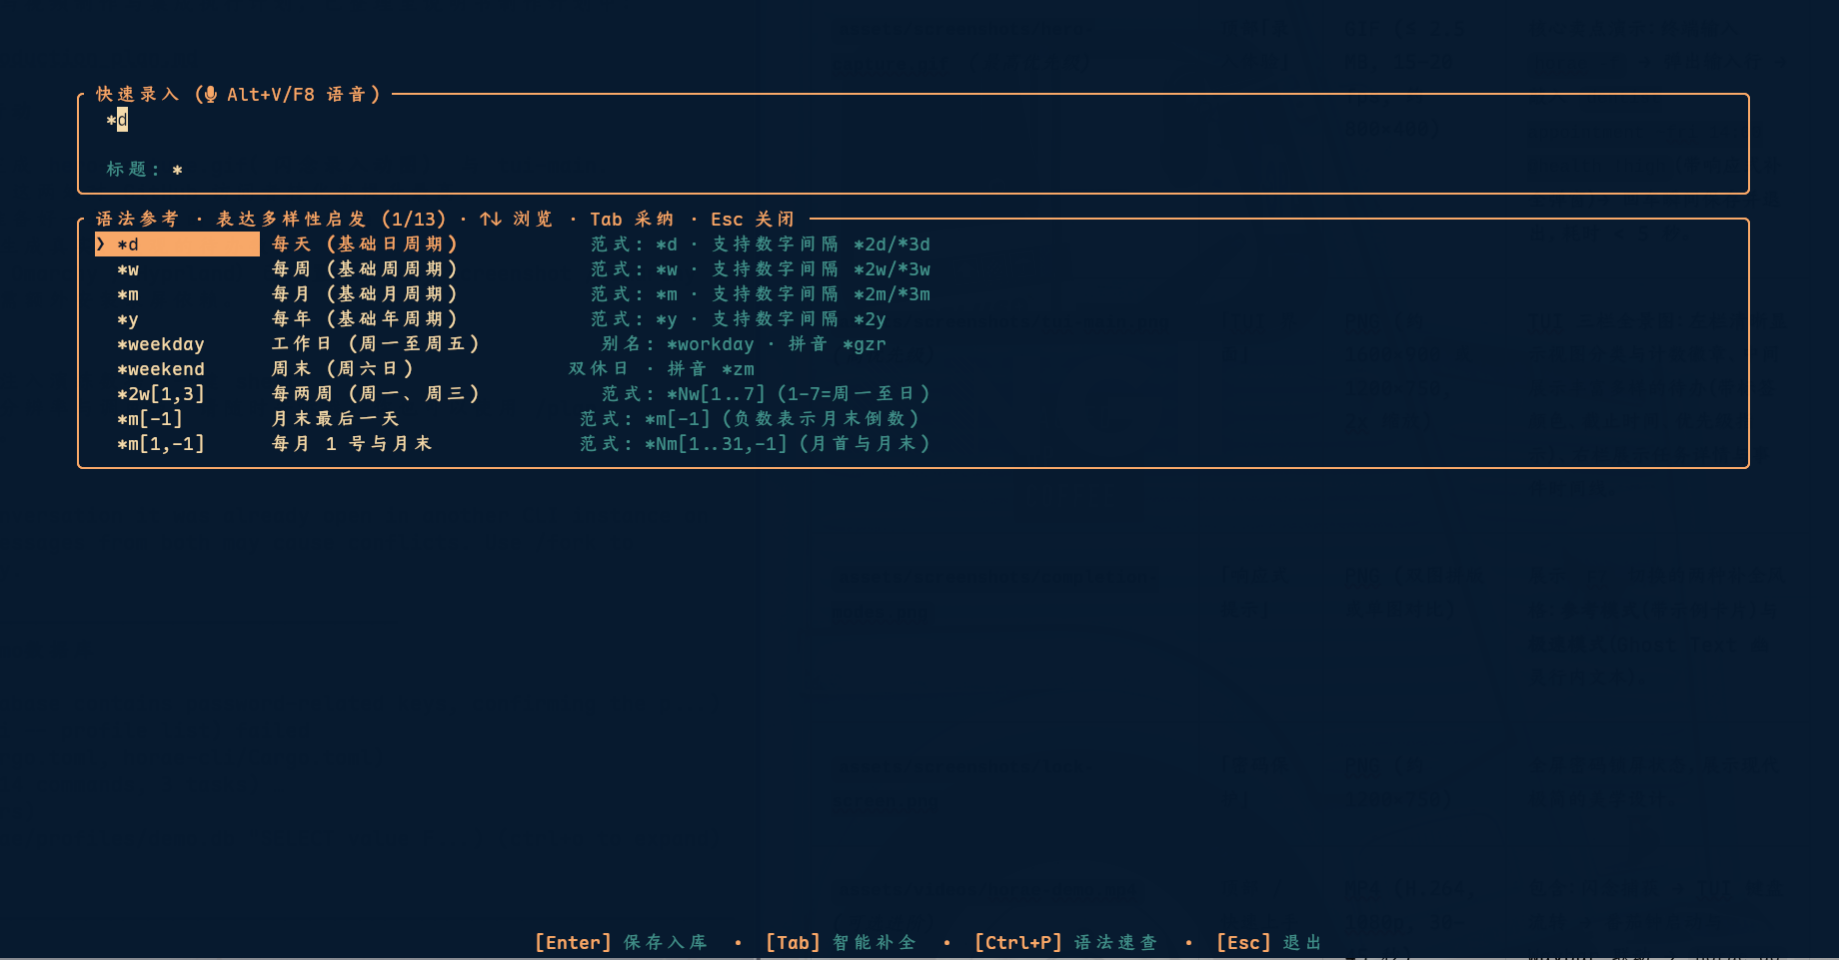
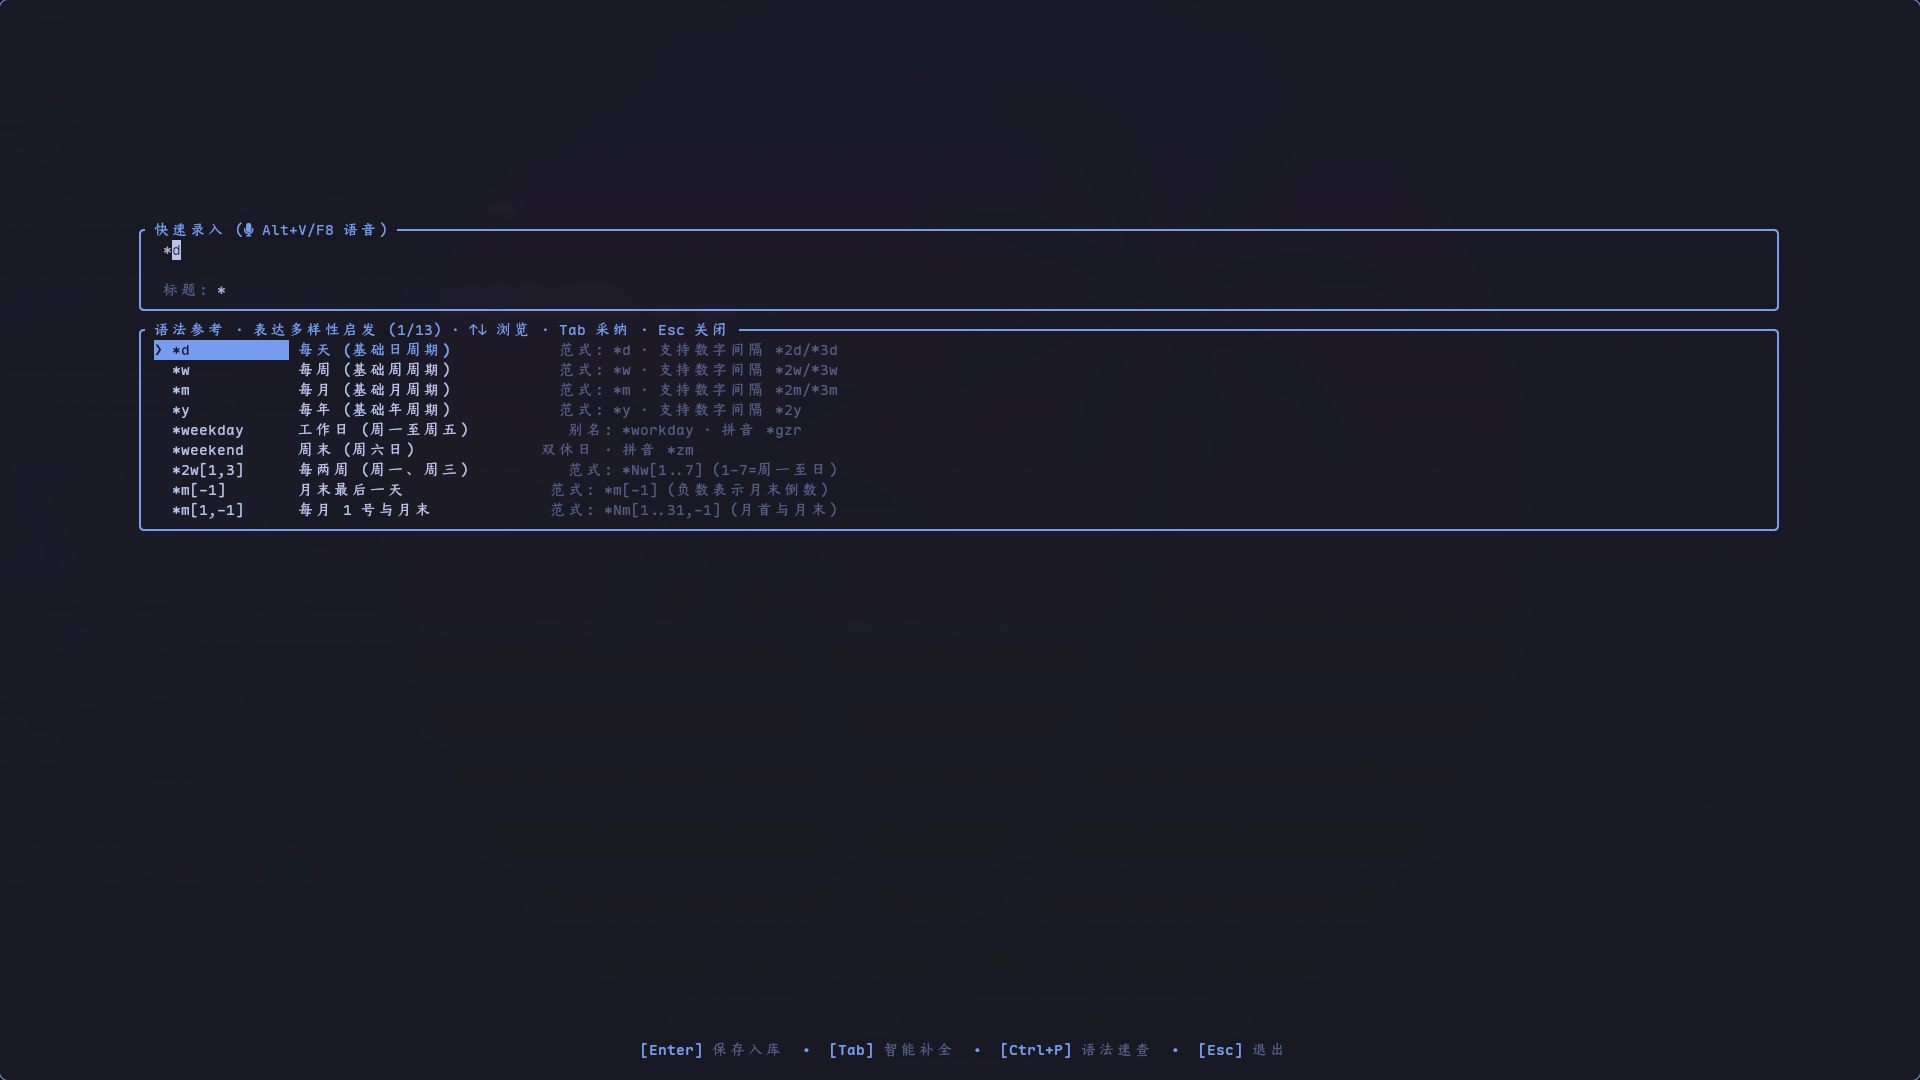
docs: add bilingual visual quickstart manuals and refresh Tokyo Night screenshots

Changed region(s): [[0.031, 0.1562, 0.9299, 0.5], [0.279, 0.9688, 0.7439, 1.0], [0.031, 0.0938, 0.217, 0.125]]

diff --git a/docs/USER_MANUAL.md b/docs/USER_MANUAL.md
@@ -1,0 +1,122 @@
+# horae Visual Quickstart Guide
+
+<div align="center">
+
+> **Idea to Inbox in 10s · ~2 ms Startup · Single-Line Syntax · Keyboard-Driven TUI**
+
+[English](USER_MANUAL.md) · [简体中文](USER_MANUAL_CN.md)
+
+</div>
+
+---
+
+## 1. Flash Capture: Clear Working Memory in 10s
+
+No bloated windows or forms. Launch a focused single-line capture modal from your terminal or via global hotkey (`SUPER+I`).
+
+![Flash Capture Dialog](../assets/screenshots/flash-capture.png)
+
+- **~2 ms Startup**: Cursor blinking immediately on launch; press Enter to save and exit;
+- **Full One-Line Syntax**: Seamlessly parse title, context tags, dates, recurrence, and priority;
+  ```text
+  Ship new release @work ~today 18:00 !high *d
+  │                │     │           │     └─ Recurrence: daily
+  │                │     │           └─────── Priority: high
+  │                │     └─────────────────── Scheduled date/time
+  │                └───────────────────────── Context tag
+  └────────────────────────────────────────── Task title
+  ```
+- **Zero-Friction Input**: Full CJK full-width symbol support (`＠` `～` `＊` `！`) with automatic token normalization.
+
+---
+
+## 2. Reactive Completions: Zero-Delay Syntax Expansion
+
+Type `@`, `~`, `*`, or `!` and completion suggestions pop up immediately without pressing Tab.
+
+![Reactive Completion Modes](../assets/screenshots/completion-modes.png)
+
+- **Reference Mode**: Split panel presenting candidate tokens alongside syntax examples and descriptions;
+- **Speed Mode**: Compact candidate list with inline ghost-text preview (`F7` to toggle anytime);
+- **One-Key Commit**: Press `Enter` to autocomplete and save in one keystroke.
+
+---
+
+## 3. 3-Pane Dashboard: Time-Datafication & Audit Timeline
+
+Type `horae` to enter the keyboard-driven dashboard. Tasks are never static notes; each possesses an authentic Git Log-style history.
+
+![TUI Main Dashboard](../assets/screenshots/tui-main.png)
+
+- **Sidebar**: `J` Today, `K` Tomorrow, `1`~`7` GTD buckets (Inbox, Next, Waiting, Scheduled...);
+- **Task List**: Vim `j`/`k` navigation, `x` Done (recurring habits reschedule forward automatically), `v` visual multi-select;
+- **Detail & Audit Timeline**: Exclusive **Git Log timeline** stamping every status change, reschedule, and check-in with UTC-ms timestamps.
+
+---
+
+## 4. Algorithmic Focus & Pomodoro: Instant Flow
+
+Unsure what to tackle next? Let the recommendation engine score and pick your single highest-value action.
+
+```sh
+horae do --start    # Selects highest-value task & immediately starts a 25m Pomodoro
+```
+
+- **Multi-Factor Scoring**: Weighs urgency, overdue days, priority tiers, and creation age;
+- **Status Bar Integration**: Background daemon ticks per second, driving Waybar / Quickshell countdowns;
+- **TUI Controls**: Press `P` on any selected task to toggle Pomodoro, `[` to tweak intervals.
+
+---
+
+## 5. Guided Weekly Review: Keep Your System Trustworthy
+
+Press `r` in the TUI each week for a guided 5-step review:
+
+![Weekly Review Wizard](../assets/screenshots/weekly-review.png)
+
+1. **Inbox Zero**: Clarify collected fragments;
+2. **Waiting On**: Follow up on delegated dependencies;
+3. **Calendar Check**: Review commitments across the next 7 days;
+4. **Someday / Maybe**: Re-evaluate backlogged ideas;
+5. **Next Actions**: Ensure every active project has a concrete physical next step.
+
+---
+
+## 6. Privacy & Security: Encryption & Instant Lock
+
+Database protection powered by PBKDF2-HMAC-SHA256:
+
+![Lock Screen & Encryption](../assets/screenshots/lock-screen.png)
+
+- **Field-Level Encryption at Rest**: Transparent AEAD encryption for task titles, notes, and timelines;
+- **Instant Lock**: Stepping away? Press `L` to lock immediately, instantly purging cached secrets from memory.
+
+---
+
+## 7. 10-Key Quick Reference
+
+Press `?` or `F1` in the TUI to view the comprehensive cheatsheet:
+
+![Keybindings Cheatsheet](../assets/screenshots/help-cheatsheet.png)
+
+| Key | Action |
+| :--- | :--- |
+| `j` / `k` | Move cursor up / down |
+| `a` | Capture new task (from any view) |
+| `Enter` / `e` | Edit / organize selected task |
+| `x` | Mark Done (recurring tasks reschedule forward) |
+| `w` / `s` | Move to Waiting / Someday |
+| `P` / `S` | Start / Stop Pomodoro |
+| `J` / `K` | Jump to Today / Tomorrow view |
+| `0` ~ `7` | `0` Quotes, `1` Inbox, `2` Next, `7` Done |
+| `F5` / `F6` / `F7` | 24 Themes / Language / Module Settings |
+| `L` | Lock screen immediately |
+
+---
+
+<div align="center">
+
+**Return time to focus, overcome anxiety with certainty.**  
+GitHub: [zhaohang1205/horae](https://github.com/zhaohang1205/horae)
+
+</div>

diff --git a/docs/USER_MANUAL_CN.md b/docs/USER_MANUAL_CN.md
@@ -1,0 +1,122 @@
+# horae 精简操作指南 (Visual Quickstart)
+
+<div align="center">
+
+> **脑中闪念，10 秒入库 · 亚秒级启动 · 一句话全语法 · 纯键盘终端看板**
+
+[English](USER_MANUAL.md) · [简体中文](USER_MANUAL_CN.md)
+
+</div>
+
+---
+
+## 1. 闪念录入：10 秒清空工作记忆
+
+无需打开繁杂界面，在终端或通过全局快捷键（`SUPER+I`）直接唤起单行录入浮窗。
+
+![闪念录入浮窗](../assets/screenshots/flash-capture.png)
+
+- **~2ms 极速启动**：光标直接落在输入框，录完回车即走；
+- **一句话全语法**：自然拆解标题、标签、时间、周期与优先级；
+  ```text
+  发布新版本 @work ~今天 18:00 !high *d
+  │          │     │           │     └─ 循环：每天
+  │          │     │           └─────── 优先级：高
+  │          │     └─────────────────── 计划时间
+  │          └───────────────────────── 情境标签
+  └──────────────────────────────────── 任务标题
+  ```
+- **中文与全角零切换**：直接键入 `＠work`、`～明天`、`！high` 均可精准识别。
+
+---
+
+## 2. 响应式补全：无需 Tab，随敲即现
+
+输入 `@`、`~`、`*` 或 `!` 时，候选框瞬时弹出，直观展示语法释义。
+
+![响应式补全模式](../assets/screenshots/completion-modes.png)
+
+- **参考模式**：左右分栏，直观呈现候选词、说明与语法示例；
+- **极速模式**：紧凑候选列表，配合幽灵字内联预览（`F7` 随意切换）；
+- **回车直达**：`Enter` 一键补全并保存，无多余按键。
+
+---
+
+## 3. 三栏主看板：时间数据化与事件履历
+
+键入 `horae` 进入三栏纯键盘看板。任务不再是一张静态便签，而拥有如 Git Log 般的完整生命履历。
+
+![TUI 主看板全景](../assets/screenshots/tui-main.png)
+
+- **左侧导航**：`J` 今日清单、`K` 明日计划、`1`~`7` GTD 状态桶（收件箱/下一步/等待/日程）；
+- **中央列表**：Vim 风格 `j`/`k` 移动，`x` 完成（循环任务自动推进至下一周期），`v` 批量多选；
+- **右侧详情与时间线**：独家 **Git Log 审计时间线**，每次状态流转、优先级调整与打卡均带 UTC 毫秒时间戳。
+
+---
+
+## 4. 专注推荐与番茄钟：一键沉浸
+
+不知道接下来该做什么？让算法为你挑选最高价值的一件事。
+
+```sh
+horae do --start    # 算法推荐当前最优任务，并直接开启 25 分钟番茄钟
+```
+
+- **综合打分**：权衡截止期、逾期天数、优先级与创建时间，智能决胜；
+- **系统状态栏集成**：后台常驻守护进程，原生驱动 Waybar / Quickshell 状态栏实时倒计时；
+- **TUI 极简操作**：选定任务按 `P` 启停番茄钟，`[` 自定义工作与休息时长。
+
+---
+
+## 5. 引导式周回顾：让系统长久可靠
+
+每周五在 TUI 按 `r`，进入 5 步引导式周回顾向导：
+
+![周回顾向导](../assets/screenshots/weekly-review.png)
+
+1. **清空收件箱**：逐条决策未处理碎片；
+2. **跟进等待中**：检查所有委派事项；
+3. **核准日程表**：梳理近 7 天排程；
+4. **激发新构想**：重估“将来也许”清单；
+5. **明确下一步**：确保每个活跃项目都有明确执行动作。
+
+---
+
+## 6. 隐私安全：透明加密与秒级锁屏
+
+支持基于 PBKDF2-HMAC-SHA256 的数据库安全防护：
+
+![安全锁屏与加密](../assets/screenshots/lock-screen.png)
+
+- **字段级透明加密**：启用密码模式后，任务标题、备注与时间线落盘即自动加密存储；
+- **随时锁屏**：暂离工位时按下 `L` 键立即全屏锁定，敏感内存缓存瞬间擦除。
+
+---
+
+## 7. 十键速查卡
+
+按下 `?` 或 `F1` 随时调出全局快捷键速查表：
+
+![快捷键速查卡](../assets/screenshots/help-cheatsheet.png)
+
+| 按键 | 作用 |
+| :--- | :--- |
+| `j` / `k` | 上下移动光标 |
+| `a` | 任意界面快速录入任务 |
+| `Enter` / `e` | 重新编辑选中的任务 |
+| `x` | 标记完成（循环习惯自动推至下次） |
+| `w` / `s` | 移至“等待中” / “将来也许” |
+| `P` / `S` | 启动 / 停止番茄钟 |
+| `J` / `K` | 快速切到 今日 / 明日 视图 |
+| `0` ~ `7` | `0` 灵感金句，`1` 收件箱，`2` 下一步，`7` 已完成 |
+| `F5` / `F6` / `F7` | 切换 24 套主题 / 切换中英文 / 模块功能控制台 |
+| `L` | 立即锁定屏幕 |
+
+---
+
+<div align="center">
+
+**把时间还给专注，用确定性对抗焦虑。**  
+GitHub: [zhaohang1205/horae](https://github.com/zhaohang1205/horae)
+
+</div>

diff --git a/README.md b/README.md
@@ -15,7 +15,7 @@
 [![License](https://img.shields.io/badge/license-GPL--3.0-blue.svg)](LICENSE)
 [![GitHub Stars](https://img.shields.io/github/stars/zhaohang1205/horae?style=social)](https://github.com/zhaohang1205/horae)
 
-[English](README.md) · [简体中文](README_CN.md)
+[English](README.md) · [简体中文](README_CN.md) · [User Manual (EN)](docs/USER_MANUAL.md) · [用户手册 (中文)](docs/USER_MANUAL_CN.md)
 
 </div>
 
@@ -39,7 +39,7 @@ dentist appointment ~fri 14:00 @health !high ↵
 
 **Time from idea to captured: under 10 seconds.**
 
-<!-- Demo GIF placeholder: assets/screenshots/hero-capture.gif -->
+![horae flash capture](assets/screenshots/flash-capture.png)
 
 ### Why so fast?
 
@@ -101,7 +101,7 @@ A GTD task manager built in Rust: one binary with an embedded SQLite database, a
 
 Nothing about a task is ever lost: every status change, reschedule and check-in is stamped with a UTC-millisecond timestamp and appended to an append-only `task_events` timeline. `horae show <id>` replays the full history.
 
-中文手册：[README_CN.md](README_CN.md)
+中文手册：[README_CN.md](README_CN.md) · [User Manual (EN)](docs/USER_MANUAL.md) · [图文操作说明书 (中文)](docs/USER_MANUAL_CN.md)
 
 ---
 
@@ -253,6 +253,8 @@ Toggles under `F7` in the TUI, persisted per database:
 Inbox → Next / Scheduled / Waiting / Someday / Reference → Done
 ```
 
+![horae GTD workflow overview](assets/screenshots/gtd-workflow.png)
+
 A freshly captured task lands in `Inbox`. Clarifying it moves it to one of the actionable or non-actionable states, and each transition stamps the matching `*_at` column. Because every transition, reschedule and check-in carries its own UTC-ms timestamp, the timeline doubles as a time record of the task's life: you can see how long it sat unclarified in the inbox, when it was rescheduled, and when it was finally done.
 
 ### Archive vs. purge
@@ -397,6 +399,8 @@ Running `horae` opens a three-pane layout: navigation on the left, the task list
 | `Ctrl+P` | **Help & Toggles** | syntax cheat sheet |
 | `Esc` / `q` | **System** | cancel / quit |
 
+![horae keybindings cheatsheet](assets/screenshots/help-cheatsheet.png)
+
 In the Tags view, `c` creates a tag and `D` deletes one. In the Settings view (`M`), `n` creates a profile, `r` renames, `d` deletes, `s` sets the default, `b` toggles sound effects, and `p` configures password protection.
 
 Today and Tomorrow are deliberately strict: both only contain `Next` and `Scheduled` tasks. Today is the union of overdue tasks and tasks whose window falls inside today; Tomorrow contains only tasks scheduled inside tomorrow's window, with no carry-over of unfinished work.
@@ -439,6 +443,8 @@ The daemon ticks once a second, writes `~/.config/horae/pomo.json`, and sends a 
 ---
 
 ## Quotes
+
+![horae quotes library](assets/screenshots/quotes-library.png)
 
 An opt-in feature (off by default, toggled under `F7`) for keeping quotes and reference fragments. A quote is a `reference` task tagged `@quote`; it only ever appears in the Quotes view (`0`) and never in the inbox or action lists. Capturing anything with `@quote` routes it there.
 
